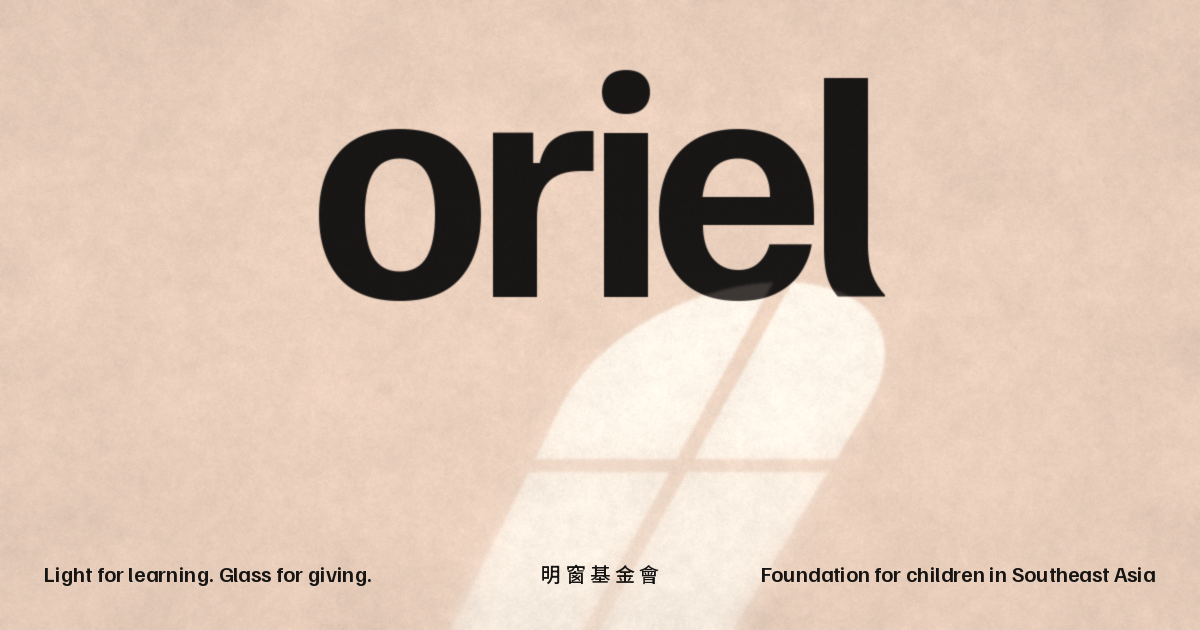
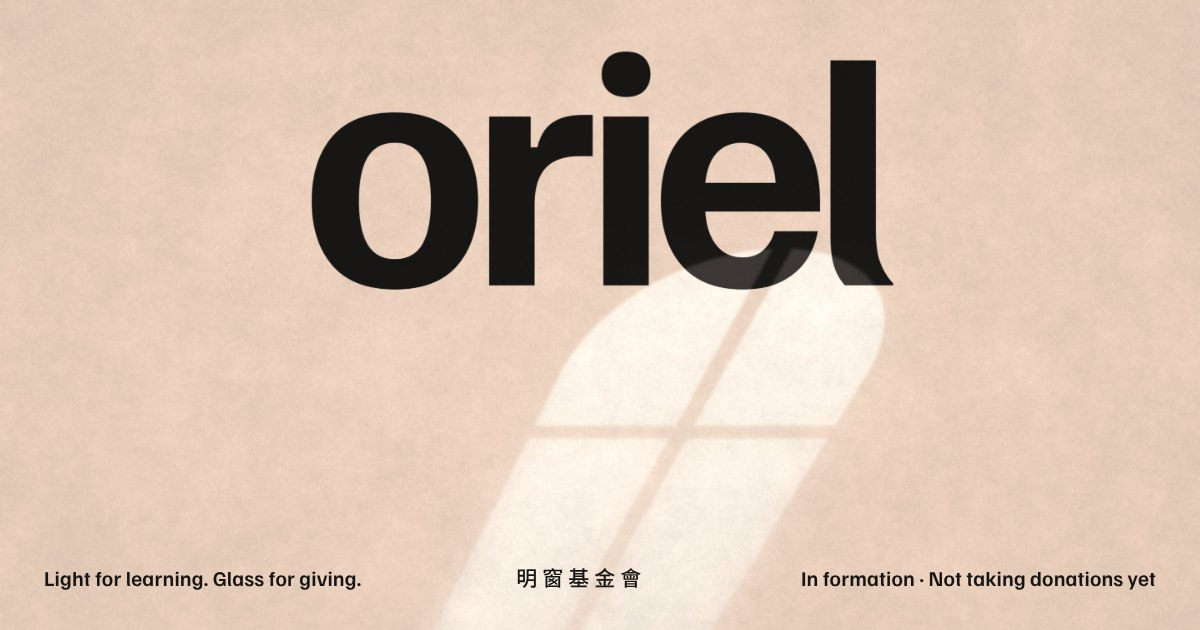
페이지별 공유(og) 이미지와 키보드 초점 강화
- public/og/*.jpg 32장(영/한): 워드마크·섹션 라벨·제목·요약 + 창빛 사진, scripts/og.mjs로 생성
- 기본 og.png 새로 만들며 예전 지역 문구 제거
- og:url·og:locale·og:image 크기/alt·twitter 태그, 글은 og:type=article
- 초점 테두리 2px, 검정 띠 위 복숭아색, 입력칸 초점 밑줄 굵게
- README·ROADMAP 갱신

Claude-Session: https://claude.ai/code/session_01CHRf4LB6wmwVaJnoDGy5Ez

diff --git a/public/style.css b/public/style.css
@@ -572,3 +572,13 @@ h1, h2, h3, .display, .sec-head h2, .page-head h1, .post-head h1, .cta h2 { font
 /* 푸터 맨 아래 선: 본문 폭(여백 안쪽)에 맞추기 */
 .foot-base { border-top: 0; position: relative; }
 .foot-base::before { content: ""; position: absolute; top: 0; left: var(--gut); right: var(--gut); border-top: 1px solid var(--rule); }
+
+/* 접근성: 키보드 초점이 어느 바탕에서나 보이게 (2026-10-30) */
+:focus-visible { outline: 2px solid var(--ink); outline-offset: 3px; }
+.ink-band :focus-visible, .cta-band :focus-visible { outline-color: var(--paper); }
+.btn:focus-visible { outline-offset: 4px; }
+.form input:focus-visible, .form select:focus-visible { outline: none; border-bottom-color: var(--ink); box-shadow: 0 2px 0 var(--ink); }
+.form textarea:focus-visible { outline: none; border-color: var(--ink); box-shadow: inset 0 0 0 1px var(--ink); }
+.form label:focus-within { color: var(--ink); }
+.skip:focus { outline: 2px solid var(--paper); outline-offset: -5px; }
+@media (forced-colors: active) { :focus-visible, .form input:focus-visible, .form select:focus-visible, .form textarea:focus-visible { outline: 2px solid CanvasText; } }

diff --git a/docs/ROADMAP.md b/docs/ROADMAP.md
@@ -18,11 +18,14 @@ The daily improvement task reads and updates this file. Top = highest priority. 
 - [ ] 뉴스레터 아카이브: 창립 서포터에게 보낸 소식을 /updates/ 로
 - [ ] 국가 선정 페이지 (현지 파트너 확정 후)
 - [ ] 다크 모드
-- [ ] 페이지별 og 이미지
 - [ ] 첫 화면이 아닌 페이지(소개·FAQ 등)도 짧은 서브 이미지나 창 모티프 하나로 리듬 주기 — 현장 사진이 오면 그걸로
 - [ ] 첫 현장 사진이 오면 활동 일지 카드(지금은 'oriel' 글자 자리표시)를 사진 비율에 맞게 다듬기
 
+- [ ] 새 글(칼럼·읽을거리·활동 일지)을 올릴 때 `node scripts/og.mjs <key>`로 그 글의 공유 이미지도 함께 만들기 (없으면 기본 og.png로 나감)
+- [ ] og-pages.json·og 생성 과정을 CI 밖에서만 돌리는 지금 방식 점검: 글이 늘면 한 번에 다시 만들기
+
 ## 완료
+- 2026-10-30 페이지별 공유(og) 이미지: 영/한 32장(public/og/*.jpg, 1200×630) — 왼쪽에 oriel 워드마크·섹션 라벨(예: 칼럼 · No. 2)·페이지 제목·요약, 오른쪽에 창빛 사진(배움·생활·짓기 중 하나), 아래 태그라인·설립 준비 중. 기본 og.png도 히어로 그대로 새로 만들며 예전 'Southeast Asia' 문구 제거. og:url·og:locale·og:image 크기/alt·twitter 태그 추가, 글은 og:type=article. 키보드 초점: 2px 테두리로 굵게, 검정 띠 위에서는 복숭아색, 입력칸은 밑줄이 굵어지게(전에는 초점이 거의 안 보였음)
 - 2026-10-29 소개 페이지 깊게: '한눈에'(이름·상태·출범 2027년 1월 예정·하는 일·지역·미디어 파트너), '지키는 것' 4가지(끊기지 않는 도움·마을이 앞에·모든 기부가 보이게·아이가 먼저 + 투명성/아동보호 링크), '이야기 나누기'(이메일·텔레그램·채널) 추가, 영/한. 푸터 맨 아래 선을 본문 폭에 맞춤
 - 2026-10-28 활동 일지 사진 크게 보기(라이트박스): 표지·본문·갤러리 사진을 누르면 검정 화면에 크게, ←/→·Esc, 밀어서 넘기기, 닫으면 원래 사진으로 포커스 복귀, 한/영 라벨. 첫 화면 창빛에 천천히 떠다니는 먼지 입자 22개(빛 든 자리 주변만, reduced-motion이면 숨김)
 - 2026-10-27 페이스북 페이지: 이름 Oriel Foundation(승인됨), 프로필·커버 C 디자인, 소개(어려운 가정 포함), 웹사이트 /oriel/ 로 교체

diff --git a/README.md b/README.md
@@ -15,7 +15,7 @@ Website of Oriel Foundation (오리엘 재단) — a foundation in formation for
 | Field journal posts | `content/journal/YYYY-MM-DD-slug.md` (see `docs/CONTENT_GUIDE.md`) |
 | Photos | `images/journal/<slug>/…` |
 | Design | `public/style.css` (tokens at the top), hero schoolhouse in `schoolhouse()` |
-| Social preview | `public/og.png` |
+| Social preview | `public/og/<page>.jpg` per page (make with `node scripts/build.mjs && NODE_PATH=$(npm root -g) node scripts/og.mjs`, needs Playwright + local fonts), `public/og.png` fallback |
 | Plan and backlog | `docs/ROADMAP.md` |
 | Marketing kit and weekly content | `marketing/` |
 
